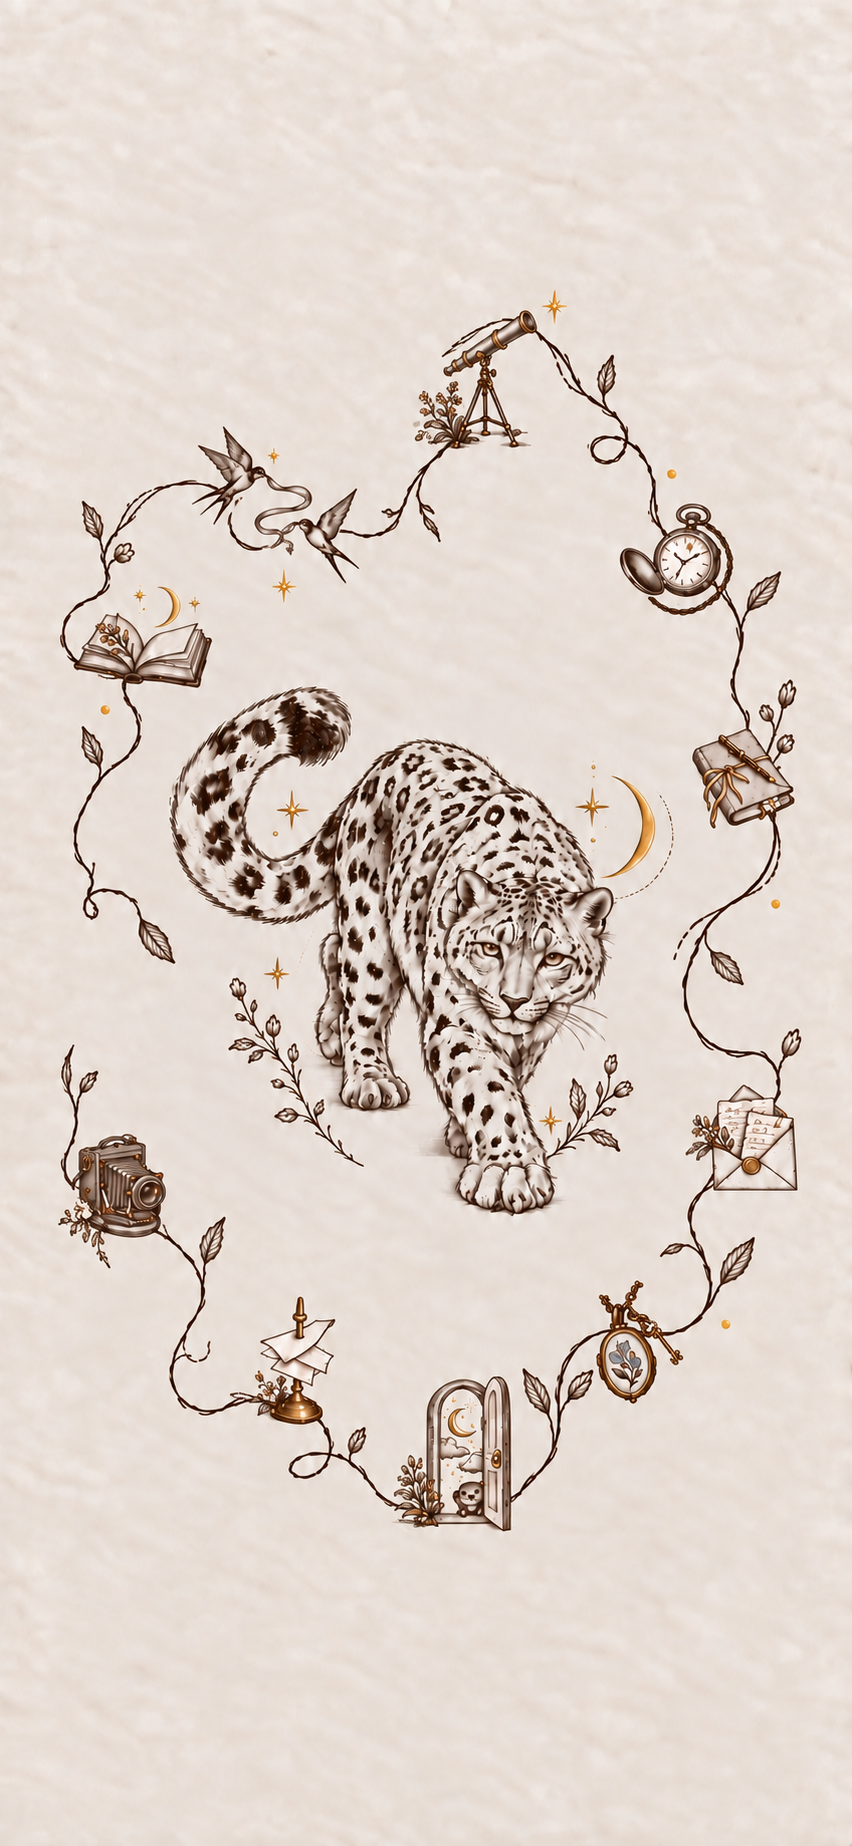
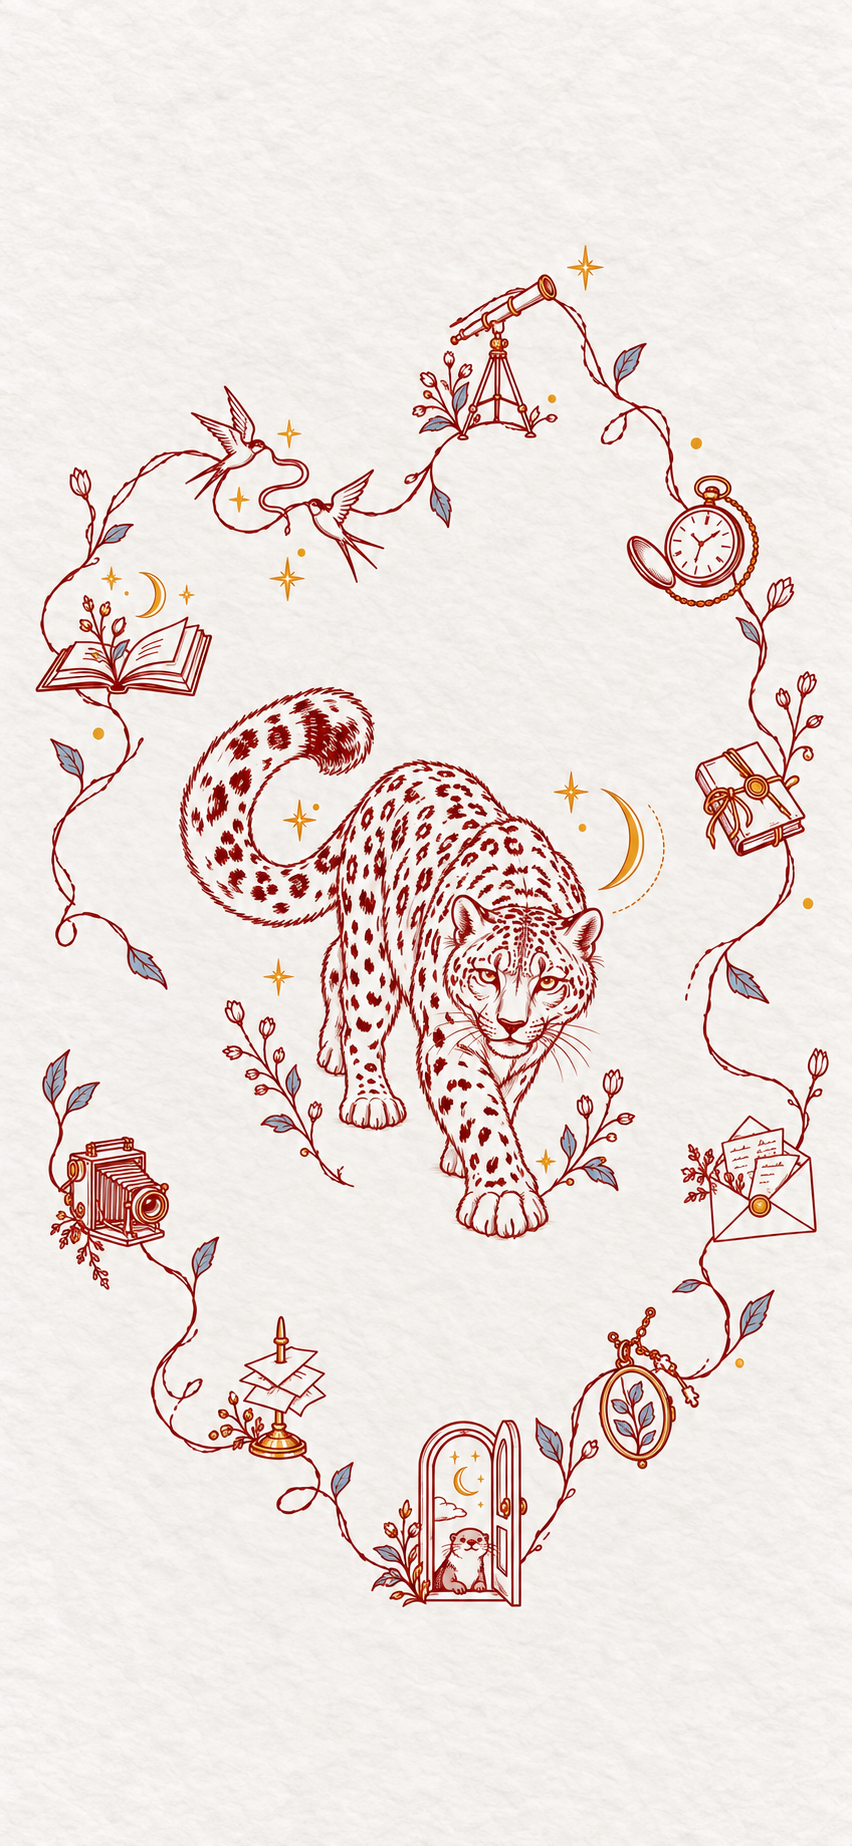
feat: refresh illustrated home artwork

diff --git a/src/components/layout/Sidebar.tsx b/src/components/layout/Sidebar.tsx
@@ -7,16 +7,16 @@ import { X } from 'lucide-react'
 import { useApp } from '@/lib/store'
 
 const entrances = [
-  { id: 'research', label: '星野手记', left: '47%', top: '13%', width: '24%', height: '14%' },
-  { id: 'poems', label: '共诗', left: '18%', top: '22%', width: '32%', height: '12%' },
-  { id: 'timeline', label: 'Timeline', left: '70%', top: '25%', width: '20%', height: '12%' },
-  { id: 'stories', label: '枕边集', left: '3%', top: '30%', width: '25%', height: '12%' },
-  { id: 'diary', label: '日记', left: '78%', top: '37%', width: '22%', height: '13%' },
-  { id: 'photos', label: '照片', left: '2%', top: '59%', width: '23%', height: '12%' },
-  { id: 'notes', label: '小纸条', left: '77%', top: '59%', width: '23%', height: '12%' },
-  { id: 'todo', label: '待办', left: '26%', top: '68%', width: '21%', height: '12%' },
-  { id: 'memory', label: '记忆', left: '64%', top: '68%', width: '22%', height: '13%' },
-  { id: 'dreams', label: '现实与梦境', left: '42%', top: '73%', width: '24%', height: '14%' },
+  { id: 'research', label: '星野手记', left: '47%', top: '12%', width: '25%', height: '12%' },
+  { id: 'poems', label: '共诗', left: '18%', top: '19%', width: '29%', height: '10%' },
+  { id: 'timeline', label: 'Timeline', left: '73%', top: '23%', width: '23%', height: '11%' },
+  { id: 'stories', label: '枕边集', left: '2%', top: '29%', width: '27%', height: '11%' },
+  { id: 'diary', label: '日记', left: '79%', top: '36%', width: '21%', height: '12%' },
+  { id: 'photos', label: '照片', left: '2%', top: '58%', width: '23%', height: '13%' },
+  { id: 'notes', label: '小纸条', left: '80%', top: '58%', width: '20%', height: '13%' },
+  { id: 'todo', label: '待办', left: '20%', top: '70%', width: '22%', height: '13%' },
+  { id: 'memory', label: '记忆', left: '67%', top: '70%', width: '23%', height: '13%' },
+  { id: 'dreams', label: '现实与梦境', left: '39%', top: '77%', width: '27%', height: '13%' },
 ] as const
 
 export function Sidebar() {
@@ -53,7 +53,7 @@ export function Sidebar() {
           animate={{ opacity: 1 }}
           exit={{ opacity: 0 }}
           transition={{ duration: reduceMotion ? 0 : 0.2 }}
-          className="fixed inset-0 z-[100] grid place-items-center overflow-hidden bg-[#F1E9DF]"
+          className="fixed inset-0 z-[100] grid place-items-center overflow-hidden bg-[#F7F5F1]"
         >
           <div
             className="relative aspect-[426/923] max-h-dvh overflow-hidden"
